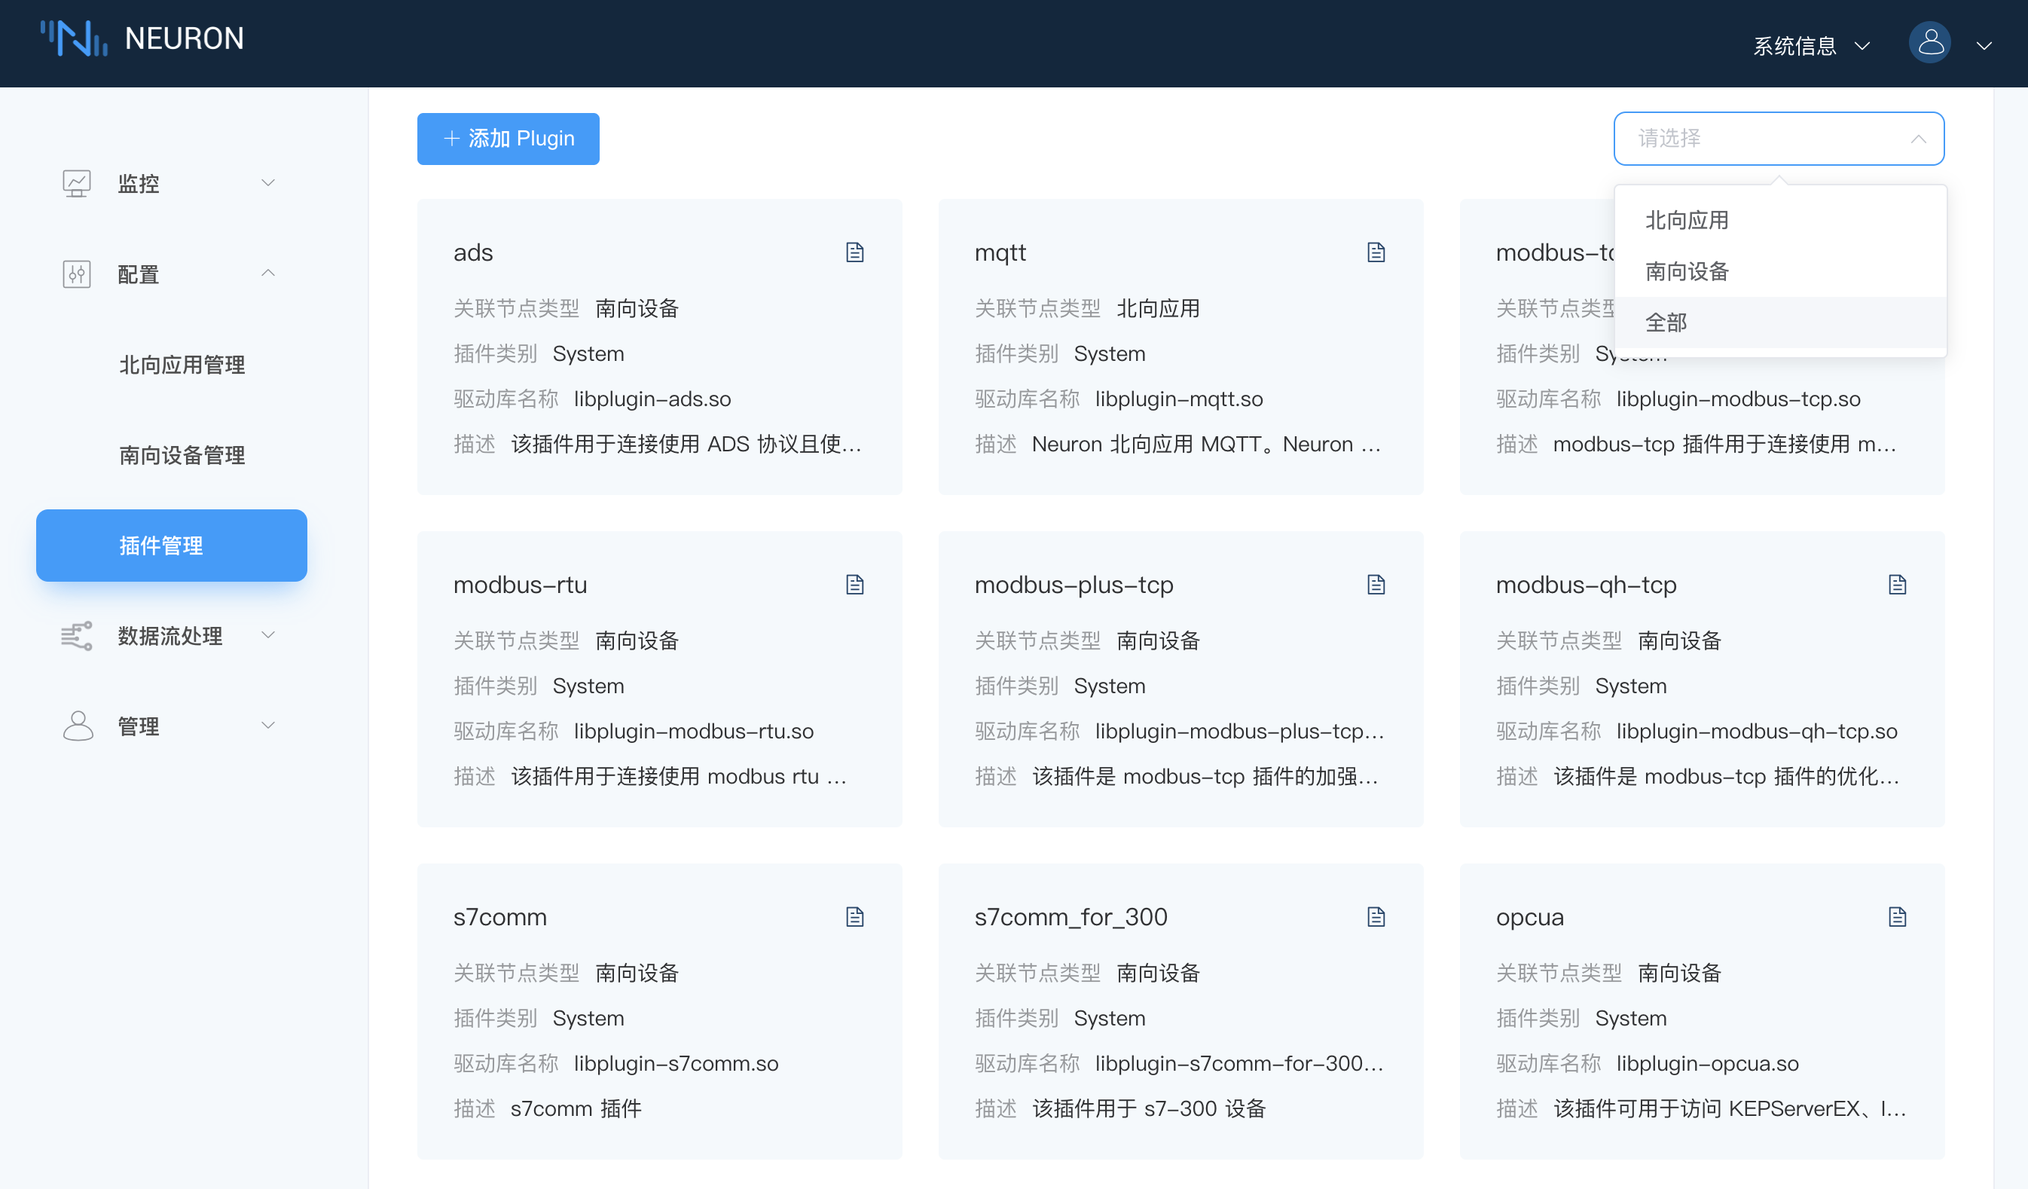
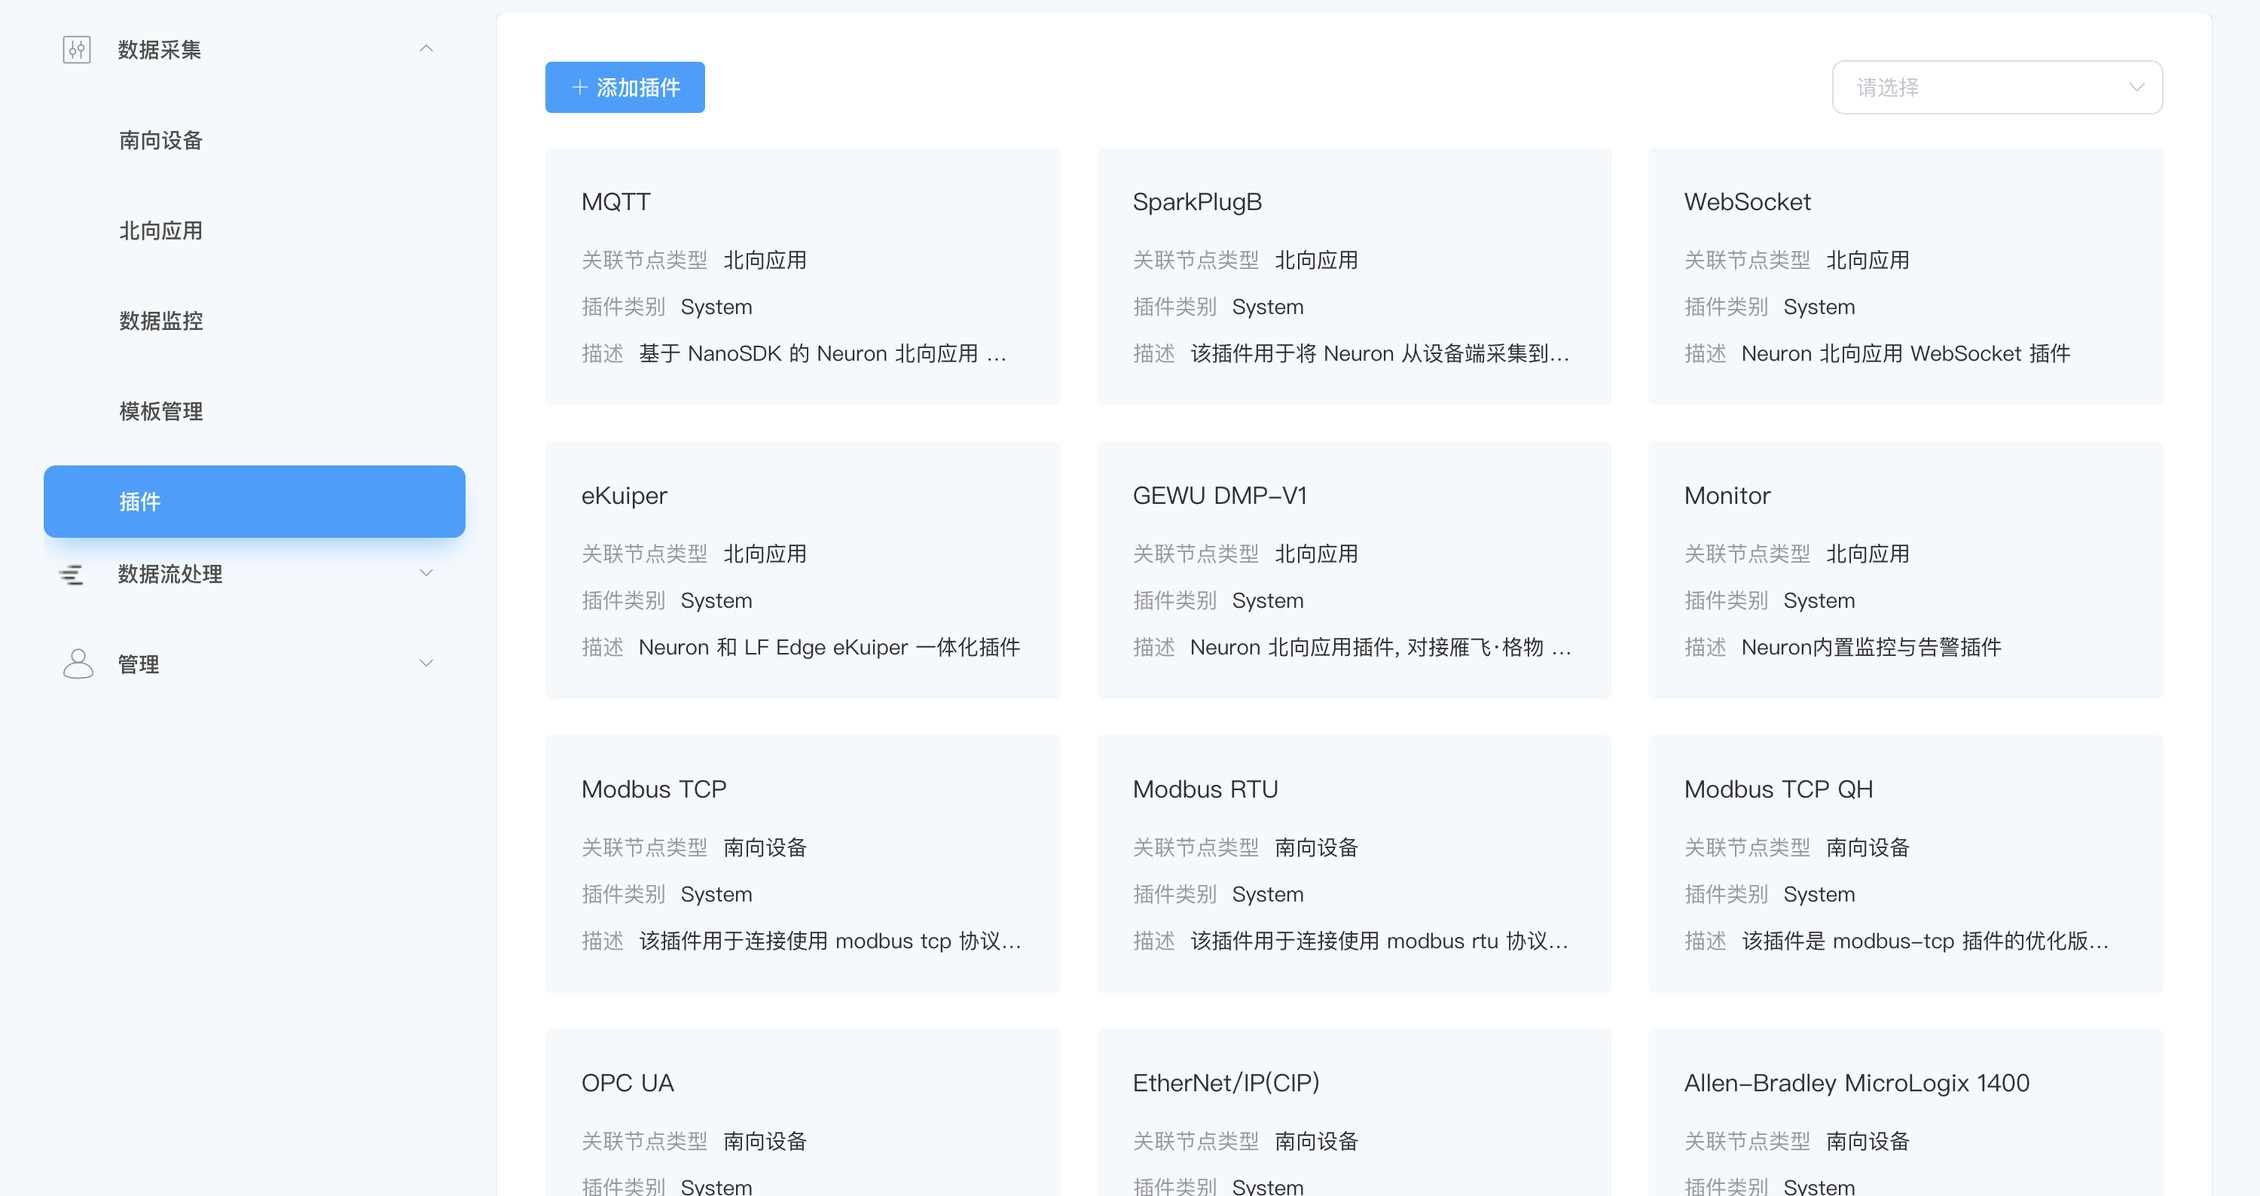
make some change

diff --git a/neuronex/zh_CN/config/groups-tags/groups-tags.md b/neuronex/zh_CN/config/groups-tags/groups-tags.md
@@ -1,6 +1,8 @@
 # 连接南向设备
 
-点位是分配给一条信息的非分层唯一关键字，其中定义了设备中的数据存储位置和数据操作属性，还包含有关数据的一些元数据信息，如缩放、精确度和读/写属性等。点位将被分配到组中。每个组都有独立的轮询频率以从设备中读取数据。要建立设备与 NeuronEX 之间的通信，首先为南向驱动程序添加组和点位。创建好组和点位，即可从数据监控中获取点位的实时值。
+数据点位是描述设备内数据的存储位置、操作属性和元数据的描述符，有助于用户访问和操作数据。数据点位定义了设备中的数据存储位置和数据操作属性，还包含有关数据的一些元数据信息，如缩放、精确度和读/写属性等。
+
+点位将被分配到组中,每个组都有独立的轮询频率以从设备中读取数据。要建立设备与 NeuronEX 之间的通信，首先为南向驱动程序添加组和点位。创建好组和点位，即可从数据监控中获取点位的实时值。
 
 ## 在设备卡片中创建组
 
@@ -23,32 +25,30 @@
 ![tags-add](./assets/tags-add.png)
 
 * **名称**：填写 Tag 名称，例如，tag1；
-* **属性**：下拉选择 Tag 属性，例如，read，write，subscribe，static，支持配置多个点位类型。关于不同类型点位的介绍，见[点位属性](#点位属性)；
+* **属性**：下拉选择 Tag 属性，例如，read，write，subscribe，支持配置多个点位类型。关于不同类型点位的介绍，见[点位属性](#点位属性)；
 * **类型**：下拉选择数据类型，例如，int16，uint16，int32，uint32，float，bit；
-* **地址**：填写驱动地址，例如，1!40001。1 代表 Modbus 模拟器中设置的点位站点号，40001 代表点位寄存器地址，详细的驱动地址使用说明请参阅 [Modbus 介绍与使用](../south-devices/modbus-tcp/modbus-tcp.md)；
-* **乘系数**：默认不填；当点位属性为 write 时，支持设置乘系数，此时 `设备值 * 乘系数 = 显示值`，如点位乘系数值为 0.1，在页面写入显示值，例如 23.4，则页面显示值为 23.4，写入到设备中的值则为 234。
+* **地址**：填写驱动地址，不同的驱动协议有的不同的地址定义规范，具体请参考[创建南向驱动](../south-devices/south-devices.md)。以Modbus协议为例，1!40001。1 代表 Modbus 模拟器中设置的点位站点号，40001 代表点位寄存器地址。 
+* **乘系数**：默认不填；当点位属性为 read 时，支持设置乘系数，此时 `设备原始值 * 乘系数 = 上报值`。
 * **精度**：点位类型选择 `float` 或 `double` 时配置精度，精度范围为 0 ～17
 * **描述**：默认不填。
 
 ### 点位属性
 
-点位共包括读（read），写（write），订阅（subscribe）和静态（static）点位四种类型。
+点位共包括读（read），写（write）和订阅（subscribe）三种类型。
 
 - 读（read）和写（write）类型点位分别用于读取数据和写入数据。
 
-- 静态（static）点位需要在配置时赋值，配置完成后在监控页面中也可以看到对应的赋值，如下图所示![monitor_static](./assets/monitor_static.png)
-
-- 订阅（subscribe）点位则仅会在数据变化时发送消息，无变化时不发送消息。例如，默认数据为 0，当该数据改为 2 时，则将发送一条消息。如在 MQTTX 中订阅主题并查看，则将如下图所示。
+- 订阅（subscribe）点位则仅会在数据变化时上报数据，无变化时不上报数据。例如，默认数据为 0，当该数据改为 2 时，则将发送一条消息。如在 MQTTX 中订阅主题并查看，则将如下图所示。
 
   ![mqttx_subscribe](./assets/mqttx_subscribe.png)
 
 
 
 
-点位创建完成后，设备卡片的工作状态处于 **运行中**，连接状态应处于 **已连接**。若此时连接状态仍然处于 **未连接** 的状态，请先在 NeuronEX 运行环境终端执行以下指令，以确认 NeuronEX 运行环境能否访问到到对应的 IP 及端口：
+点位创建完成后，设备卡片的工作状态处于 **运行中**，连接状态应处于 **已连接**。若此时连接状态仍然处于 **未连接** 的状态，请检查 NeuronEX 软件与设备之间的网络连通性，如果NeuronEX与设备之间是以太网通讯方式，执行以下指令，以确认 NeuronEX 运行环境能否访问到到对应的 IP 及端口：
 
 ```bash
-$ telnet <运行 Modbus 模拟器 PC 端的 IP> 502
+$ telnet <设备端的 IP> Port
 ```
 
 请您确认在设备配置时 IP 与 Port 正确设置，防火墙关闭。

diff --git a/neuronex/zh_CN/config/ecp_edge_plugin.md b/neuronex/zh_CN/config/ecp_edge_plugin.md
@@ -2,7 +2,7 @@
 
 插件可以分为北向应用和南向驱动程序。北向插件通常用于连接到云平台或像处理引擎这样的外部应用程序。南向插件是实现特定协议以访问外部设备的通信驱动程序。为了实现协议格式转换，至少需要一个北向插件和一个南向插件分别用于数据传递和数据采集。
 
-登录 NeuronEX 后，您可点击**配置** -> **插件**查看系统的插件列表。您也可点击左上角的**添加插件**按钮安装自定义插件。
+登录 NeuronEX 后，您可点击**数据采集** -> **插件**查看系统的插件列表。您也可点击左上角的**添加插件**按钮安装自定义插件。
 
 您可访问[插件列表页](../intro/plugin-list.md)获取 NeuronEX 完整支持的插件列表。
 
@@ -14,17 +14,17 @@
 
 插件类型包括以下三种模式：
 
-* Static：不可删除
 * System：不可删除，软件自带
 * Custom：可删除，用户自己开发或者是定制开发的
 
 ## 添加新的可插拔模块
 
-在插件页面，点击左上角的**添加插件**按钮，在弹出的对话框中进行如下配置：
+在插件页面，点击左上角的**添加插件**按钮，上传本地的插件 .so 文件。
 
-填写需要添加的 .so 文件的路径和文件名。
+具体的插件开发教程请参考 [SKD 教程](https://neugates.io/docs/zh/latest/dev-guide/sdk-tutorial/sdk-tutorial.html)。
 
-单击**创建**按钮将 .so 文件添加到构建目录。
+## 替换已有插件模块
 
+在插件页面，点击每个插件卡片上的**替换**按钮，上传本地的插件 .so 文件。
 
-请确保已将自己编写的 .so 插件文件放置在 ecpedge/build/plugins 目录下，再进行添加。具体的插件开发教程请参考 [SKD 教程](https://neugates.io/docs/zh/latest/dev-guide/sdk-tutorial/sdk-tutorial.html)。
+具体的插件替换更新，请联系EMQ商务团队。

diff --git a/neuronex/zh_CN/intro/architecture.md b/neuronex/zh_CN/intro/architecture.md
@@ -1,4 +1,32 @@
-# 架构
+# NeuronEX架构
 
-NeuronEX 是一款工业边缘网关软件，专注于工业数据的实时接入和智能分析，助您快速洞悉业务趋势，提升运营效率和可持续性。
+NeuronEX 是一款面向工业领域的设备数据采集和边缘智能分析的软件，主要部署在工业现场，实现工业设备通信及工业总线协议采集、工业系统数据集成、边端数据过滤分析和AI算法集成，以及工业互联网平台对接集成等功能，为工业场景提供低延迟的数据接入管理及智能分析服务。
 
+<img src="./_assets/architect.png" alt="架构" style="zoom:100%;" />
+
+如上图所示，NeuronEX主要分为数据采集接入、数据处理分析以及数据转发存储三大模块。
+
+## 数据采集接入模块
+
+在数据采集接入方面，NeuronEX不仅支持**工业设备数据采集**，还支持工业现场**多源数据接入集成**。
+
+#### 工业设备数据采集
+
+NeuronEX 通过插件的方式实现对各种工业协议的支持，包括 Modbus、OPC UA、EtherNet/IP、IEC104、BACnet、Siemens PLC、Mitsubishi PLC等。满足智能制造、石油石化、钢铁冶金、能源电力以及楼宇自动化等各个行业的数据采集接入需求。
+
+#### 多源数据接入集成
+NeuronEX 还具备各类数据灵活获取的能力，在工业场景下，可以支持：
+
+- MES、WMS、ERP系统的数据获取
+
+- 数据库对接
+
+    SQLite、MySQL、SQLserver等数据源数据获取
+
+- 企业服务总线（ESB）对接
+
+    双向对接企业服务总线，向企业服务总线推送数据以及接受数据
+
+- 文件数据采集
+
+- 视频流接入分析

diff --git a/neuronex/zh_CN/monitor/introduction.md b/neuronex/zh_CN/monitor/introduction.md
@@ -1,6 +1,10 @@
 # 数据监控
 
+## 南向驱动采集监控仪表盘
+
 点击左侧的`数据监控`，选择南向设备和组名称，查看点位数值。
+
+![data-monitoring](./_assets/data-monitoring.png)
 
 * 南向设备：选择想要查看的南向设备，例如，选择已创建的设备 modbus-tcp-1;
 * 组名称：选择想要查看的南向设备下的组，例如，选择已创建的组 group-1；
@@ -8,13 +12,25 @@
 
 ## 反控设备
 
-### 更改值
+Neuron 提供通过南向驱动向设备下发指令控制的能力。通过以下各种途径可以向设备发出指令:
+
+- NeuronEX的数据流处理模块
+- 其他第三方应用程序
+- 工业互联网平台
+- 云平台应用
+
+向设备发送命令有三种方式：
+- 用户可以在[仪表板监控屏幕](#监控仪表盘数据写入)上发出命令。
+- 通过 [RESTful APIs](../http-api/rw.md) 传递命令。
+- 通过NeuronEX 的 [MQTT 数据下行通道](../config/north-apps/mqtt/api.md)。任何外部系统，如基于云的平台，都可以将指令数据发布到特定MQTT主题，NeuronEX 接收到指令数据并发送到设备。
+
+### 监控仪表盘数据写入
 
 当点位为写属性时，数据监控界面的 Tag 会有一个写操作，点击 `Write` 可以实现反控设备，例如，修改具有写属性的 1!40001 点位地址的值，如下图所示。
 
 ![write](./_assets/write.png)
 
-* 单击要改值的标签末尾的`写`按键；
+* 单击要改值的标签末尾的`Write`按键；
 * 选择是否以十六进制方式输入，不选择；
 * 输入标签新值，例如，123；
 * 单击`提交`按键提交新的值。

diff --git a/neuronex/zh_CN/api/jwt.md b/neuronex/zh_CN/api/jwt.md
@@ -1,21 +1,21 @@
 # 自定义 JWT
 
-在 NeuronEX 中调用 API 时，需先调用登录接口生成 JWT，再调用其他接口进行 JWT 验证。默认生成的 JWT 过期时间为一小时，可以自己生成 JWT，自定义过期时间。
+在 NeuronEX 中调用 API 时，需先调用登录接口生成 JWT，再调用其他接口进行 JWT 验证。默认生成的 JWT 过期时间为一小时，可以自行生成 JWT，自定义过期时间。
 
-当用户请求 RESTful apis 时，请在 http 请求头中按以下格式输入 **Token**：
+当用户请求 RESTful API 时，请在 http 请求头中按以下格式输入 **Token**：
 
 ```go
 Authorization: Bearer
 							XXXXXXXXXXXXXXX
 ```
 
-If the token is correct,NeuronEX will respond the result; otherwise, it will return http `401`code.
+如果**Token**正确，NeuronEX 将响应结果； 否则，它将返回`401`代码。
 
 ## 什么是 JWT？
 
 JWT 是一种用于安全传输信息的开放标准（RFC 7519）。JWT 结构包含三个部分，分别是头部（Header）、载荷（Payload）和签名（Signature）。
 
-Neuron 先根据 **iss** 字段查找 neuron 安装目录下的子目录 **certs** 是否包含该名称对应的 .pem 或 .pub 文件，再根据里面的字段进行校验。Neuron 中所需要的 JWT 结构如下：
+NeuronEX 先根据 **iss** 字段查找 NeuronEX 安装目录下的子目录 **etc** 是否包含该名称对应的 .pem 或 .pub 文件，再根据里面的字段进行校验。NeuronEX 中所需要的 JWT 结构如下：
 
 ```json
 header

diff --git a/neuronex/zh_CN/management/introduction.md b/neuronex/zh_CN/management/introduction.md
@@ -1,17 +1,19 @@
-# 系统管理
+# 运维指南
+
+本章节旨在帮助管理员和运维人员有效地管理和维护 NeuronEX。在本章节中，我们将探讨各种管理任务，并提供全面的指导和最佳实践，以确保您的 NeuronEX 平稳、高效地运行。
 
 ## 登录
 
-打开 Web 浏览器，输入运行 NeuronEX 的网关地址和端口号，即可进入到管理控制台页面，默认端口号为 7000。
+打开 Web 浏览器，输入运行 NeuronEX 的网关地址和端口号，即可进入到管理控制台页面，默认端口号为 8085。
 
-访问格式，http://x.x.x.x:7000 其中，x.x.x.x 代表安装 NeuronEX 的网关地址。
+访问格式，http://x.x.x.x:8085 其中，x.x.x.x 代表安装 NeuronEX 的网关地址。
 
 页面打开后，进入登录界面，用户可使用初始用户名与密码登录（初始用户名：admin，初始密码：0000）。
 
 如果页面无法打开，请在终端执行以下指令进行检测：
 
 * 使用 ping 命令测试网络是否能通。
-* 使用 telnet 命令测试端口 7000 能否访问。
+* 使用 telnet 命令测试端口 8085 能否访问。
 * 执行如下指令查看 NeuronEX 的进程状态。
 
 ```
@@ -20,5 +22,7 @@ $ systemctl status neuron
 
 ## 管理
 
-* [管理日志](./logs.md)
+具体各项管理功能请查看以下页面：
+
+* [日志管理](./logs.md)
 * [修改密码](./password.md)

diff --git a/neuronex/zh_CN/config/north-apps/north-apps.md b/neuronex/zh_CN/config/north-apps/north-apps.md
@@ -8,5 +8,5 @@
 - [eKuiper 插件](./ekuiper/ekuiper.md)：LF Edge [eKuiper](https://ekuiper.org/) 是 Golang 实现的轻量级物联网边缘分析、流式处理开源软件，可以运行在各类资源受限的边缘设备上。NeuronEX eKuiper 插件使用户能够将收集到的数据发布到 eKuiper 以进一步处理。 
 - [Sparkplug B 插件](./sparkplugb/sparkplugb.md)：Sparkplug B 是一种建立在 MQTT 3.1.1 基础上的工业物联网数据传输规范。NeuronEX Sparkplug B 插件从设备采集到的数据可以通过 Sparkplug B 协议从边缘端传输到 Sparkplug B 应用中，用户也可以从应用程序向 NeuronEX 发送数据修改指令。
 - [WebSocket 插件](./websocket.md)：WebSocket 网络协议支持在单个 TCP 连接上提供双向通信通道。借助 NeuronEX WebSocket 插件，用户可以将采集的数据推送到 WebSocket 服务器。
-- [Monitor 插件](./monitor.md)：NeuronEX 在启动时创建一个 Monitor 单例节点，用于监控运行的 NeuronEX 实例。您可以在仪表板的**北向应用**页签中看到 Monitor 节点。
+
 

diff --git a/neuronex/zh_CN/api/api.md b/neuronex/zh_CN/api/api.md
@@ -1,8 +1,12 @@
 # HTTP API
 
-IIoT平台或其他监控应用可以通过使用提供的HTTP-API来监视和控制NeuronEX设备。这些API的关键功能如下：
+NeuronEX 提供了管理监控 REST API，这些 API 遵循 OpenAPI (Swagger) 3.0 规范。
 
-[JWT身份验证：](./jwt.md) API采用JWT身份验证，确保IIoT平台或监控应用与Neuron设备之间的安全通信和身份验证。这增强了系统的整体安全性。
+NeuronEX 服务启动后，您可以访问 http://localhost:8085/api-docs/index.html 来查看 API 的文档。还可以直接在 Swagger UI 上尝试执行一些 API。
+
+本节将指导您快速开始使用 NeuronEX REST API。
+
+[JWT身份验证：](./jwt.md) API采用JWT身份验证，确保IIoT平台或监控应用与NeuronEX 设备之间的安全通信和身份验证。这增强了系统的整体安全性。
 
 [数据类型描述：](./data-type.md) 为了确保数据的表示和解释清晰一致，API描述了使用的数据类型。这促进了IIoT平台或监控应用中数据的无缝集成和分析。
 

diff --git a/neuronex/zh_CN/config/templates/templates.md b/neuronex/zh_CN/config/templates/templates.md
@@ -1,15 +1,14 @@
 # 基于模板配置
 
-实际使用场景中， Neuron 用户经常需要创建大量配置相似的节点。
+实际使用场景中， NeuronEX 用户经常需要创建大量配置相似的节点。
 这是个耗时且容易出现错误的过程，特别是在大规模部署中。
-为了简化这个过程， Neuron **2.5.0** 版本引入了模板功能。
 
-Neuron 的模板功能允许用户创建带有指定插件和配置（包括组和标签）的模板。
+NeuronEX 的模板功能允许用户创建带有指定插件和配置（包括组和标签）的模板。
 然后，用户可以以该模板为基础创建新节点。
 通过使用模板，用户可以快速、轻松地创建具有相似配置的新节点，从而节省时间和精力。
 
 ::: tip
-Neuron 2.5.0 版本模板功能只支持南向插件。
+NeuronEX 模板功能只支持南向插件。
 :::
 
 ## 创建模板

diff --git a/neuronex/zh_CN/install/docker.md b/neuronex/zh_CN/install/docker.md
@@ -13,7 +13,7 @@ $ docker pull emqx/neuronex:3.0.0
 
 ```bash
 ## run NeuronEX
-$ docker run -d --name neuronex -p 8085:8085 --log-opt max-size=10m emqx/neuronex:3.0.0
+$ docker run -d --name neuronex -p 8085:8085 --log-opt max-size=100m emqx/neuronex:3.0.0
 ```
 
 * tcp 8085：端口映射，用于访问 web 和 http api 端口。

diff --git a/neuronex/zh_CN/api/data-type.md b/neuronex/zh_CN/api/data-type.md
@@ -1,4 +1,4 @@
-# 数据类型
+# 数据采集功能数据类型
 
 ## 概念解析
 
